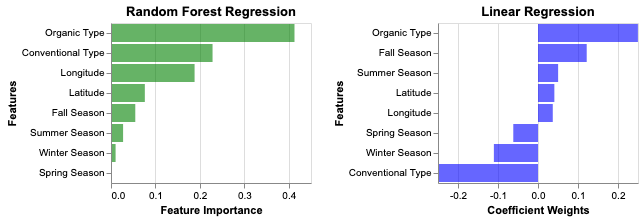
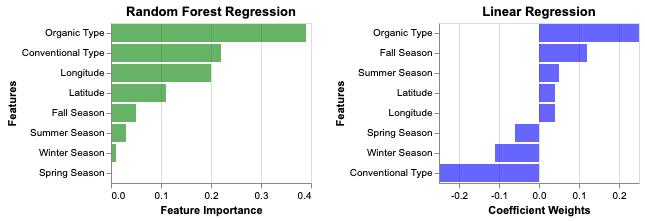
updated significant digits

diff --git a/src/regression.py b/src/regression.py
@@ -82,7 +82,7 @@ def feature_target_split(train_data):
   
   categorical_features = ['type', 'season']
   
-  # Check if categorical features are 
+  # Check if categorical features are strings
   assert type(train_x['type'][1]) == str, "categorical feature should be type string"
   assert type(train_x['season'][1]) == str, "categorical feature should be type string"
   
@@ -131,10 +131,10 @@ def random_forest_regression(train_x, train_y, output, train_data):
   random_rfr.fit(train_x, train_y)
   fold_accuracies_rfr = cross_val_score(estimator=random_rfr, X=train_x, y=train_y, cv=5)
   cv_scores = pd.DataFrame({'Fold': [1, 2, 3, 4, 5],
-                            'Neg Mean Squared Error': fold_accuracies_rfr})
+                            'Neg Mean Squared Error': np.around(fold_accuracies_rfr, 2)})
                     
   # Check that the regression worked and all cv_scores are not equal to zero
-  assert cv_scores['Neg Mean Squared Error'].all() != 0, "Random Forest Regression failed..."
+  assert cv_scores['Neg Mean Squared Error'].any() != 0, "Random Forest Regression failed..."
   
   # Outputting the cv_scores to the results folder as a csv file                  
   # calculate the average error from these scores in final report
@@ -145,7 +145,7 @@ def random_forest_regression(train_x, train_y, output, train_data):
                      'Fall Season', 'Spring Season',
                      'Summer Season', 'Winter Season']
   feature_df = pd.DataFrame({"feature_names": nice_feature_list,
-             "importance": random_rfr.best_estimator_.feature_importances_})
+             "importance": np.around(random_rfr.best_estimator_.feature_importances_, 2)})
   feature_df = feature_df.sort_values(["importance"], ascending=False)
   feature_df.to_csv(output + "feature_importance_rfr.csv", index=False)
   return feature_df
@@ -185,10 +185,10 @@ def regularized_linear_regression(train_x, train_y, output, train_data):
   r2.fit(train_x, train_y)
   fold_accuracies_lr = cross_val_score(estimator=r2, X=train_x, y=train_y, cv=5)
   cv_scores_lr = pd.DataFrame({'Fold': [1, 2, 3, 4, 5],
-                               'Neg Mean Squared Error': fold_accuracies_lr})
+                               'Neg Mean Squared Error': np.around(fold_accuracies_lr, 2)})
                                
   # Check that the regression worked and all cv_scores are not equal to zero
-  assert cv_scores_lr['Neg Mean Squared Error'].all() != 0, "Regularized linear regression failed..."   
+  assert cv_scores_lr['Neg Mean Squared Error'].any() != 0, "Regularized linear regression failed..."   
 
   cv_scores_lr.to_csv(output + "cv_scores_lr.csv", index=False)
   feature_list = list(train_x.columns)
@@ -197,7 +197,7 @@ def regularized_linear_regression(train_x, train_y, output, train_data):
                      'Fall Season', 'Spring Season',
                      'Summer Season', 'Winter Season']
   lr_feature_df = pd.DataFrame({"feature_names": nice_feature_list,
-             "weights": r2.coef_})
+             "weights": np.around(r2.coef_, 2)})
   lr_feature_df = lr_feature_df.sort_values(["weights"], ascending=False)
   lr_feature_df.to_csv(output + "feature_weights_lr.csv", index=False)
   return lr_feature_df
